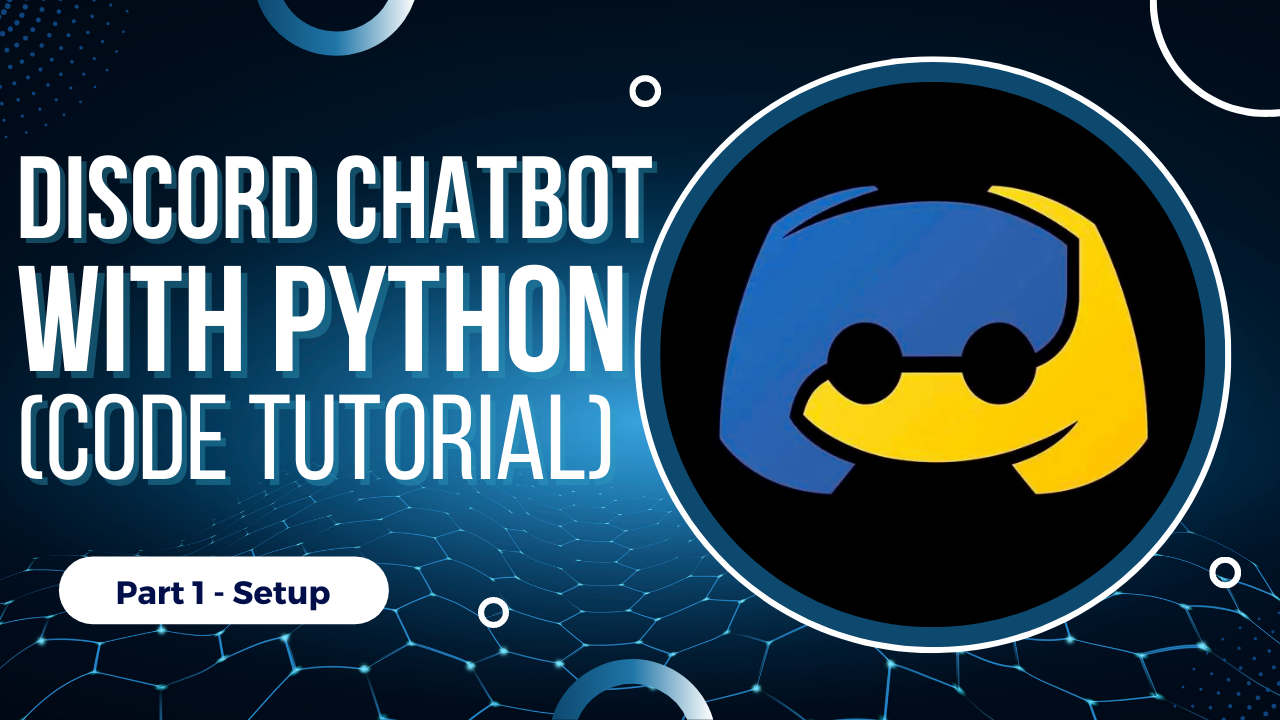
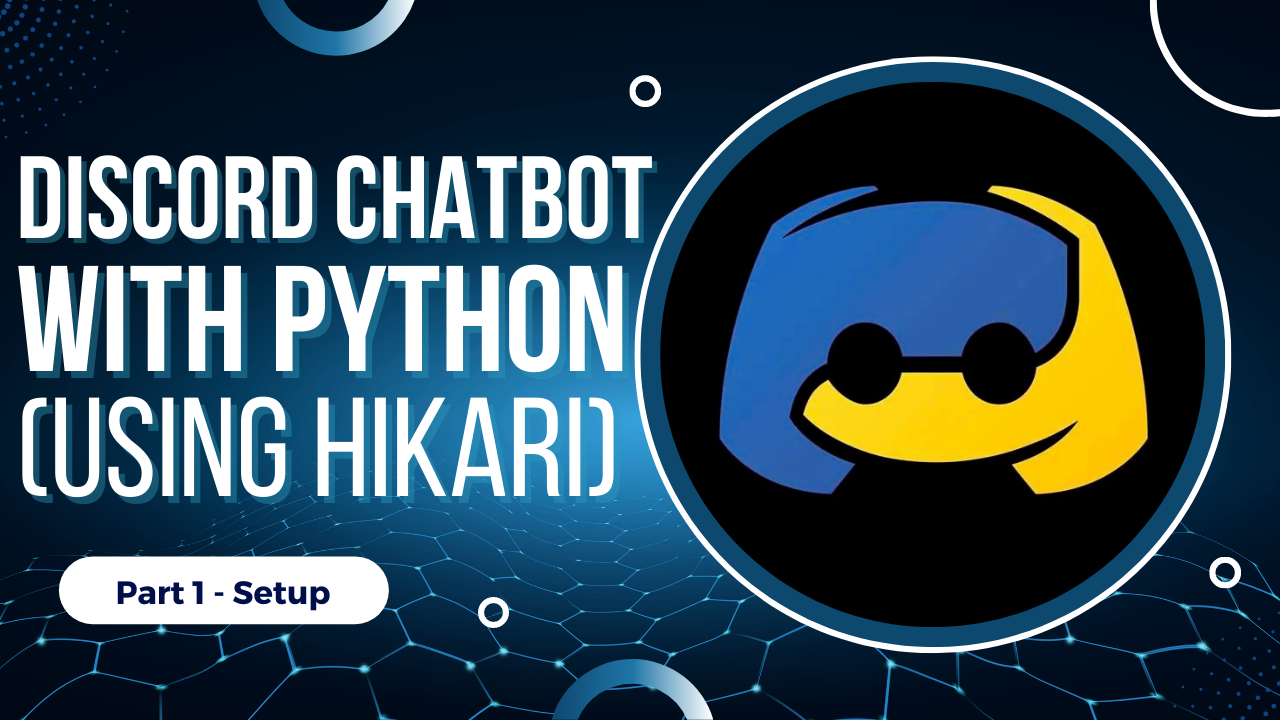
Part 2

Changed region(s): [[0.0, 0.55, 0.5, 0.7028]]

diff --git a/Part 2 - Message Events/README.md b/Part 2 - Message Events/README.md
@@ -1,0 +1,29 @@
+# Part 1 - Setup
+
+This is the first part of the new Discord Bot with Python using Hikari tutorial series.
+In this [video](https://www.youtube.com/watch?v=GN2-uyDwm4A), we go over how to setup the Discord Bot.
+
+[![Thumbnail](Thumbnail.png)](https://www.youtube.com/watch?v=GN2-uyDwm4A)
+
+
+## Installation
+
+Install the Hikari Package using eitehr of these commands
+
+```bash
+python -m pip install -U hikari
+# Windows users may need to run this instead...
+py -3 -m pip install -U hikari
+```
+
+## Resources
+
+[Hikari Documentation](https://www.hikari-py.dev/)
+Read the docs for better understanding of the code.
+
+[Discord Developer](https://discord.com/developers/applications)
+Create your very own Discord Bot here!
+
+## License
+
+[MIT](https://github.com/kshgr/Discord-Bot-with-Python-using-Hikari/blob/main/LICENSE)
